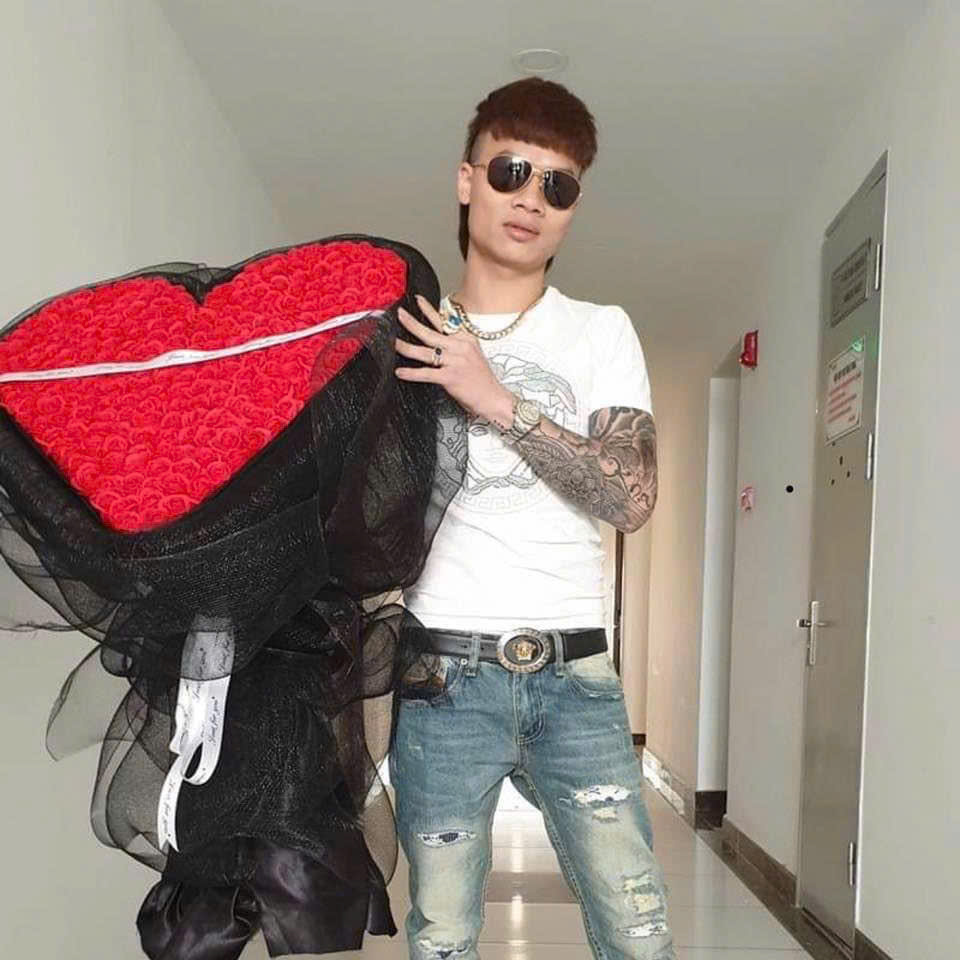
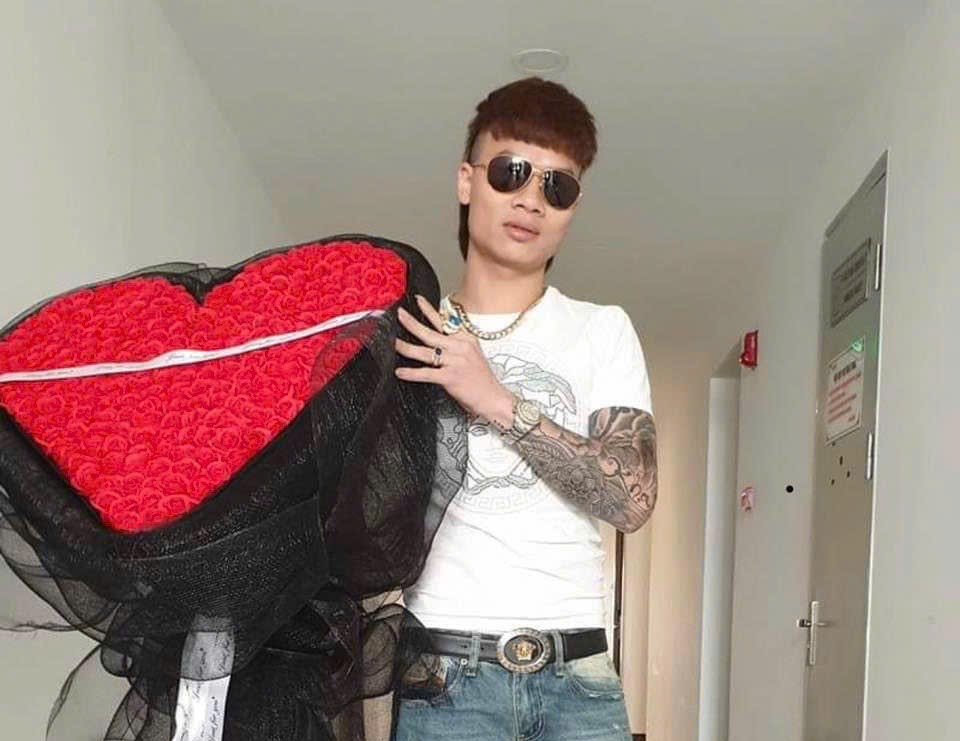
update img

diff --git a/love/love.html b/love/love.html
@@ -26,10 +26,7 @@
         <div class="boxSlider">
           <div class="listSlider">
             <div class="slider">
-              <img
-                src="../image/z5944501491422_46460e7739a842c1f316eeaa46b4aa7f.jpg"
-                alt=""
-              />
+              <img src="../image/memm.jpg" alt="" />
             </div>
             <div class="slider">
               <img src="../image/Screenshot 2024-10-12 153613.png" alt="" />
